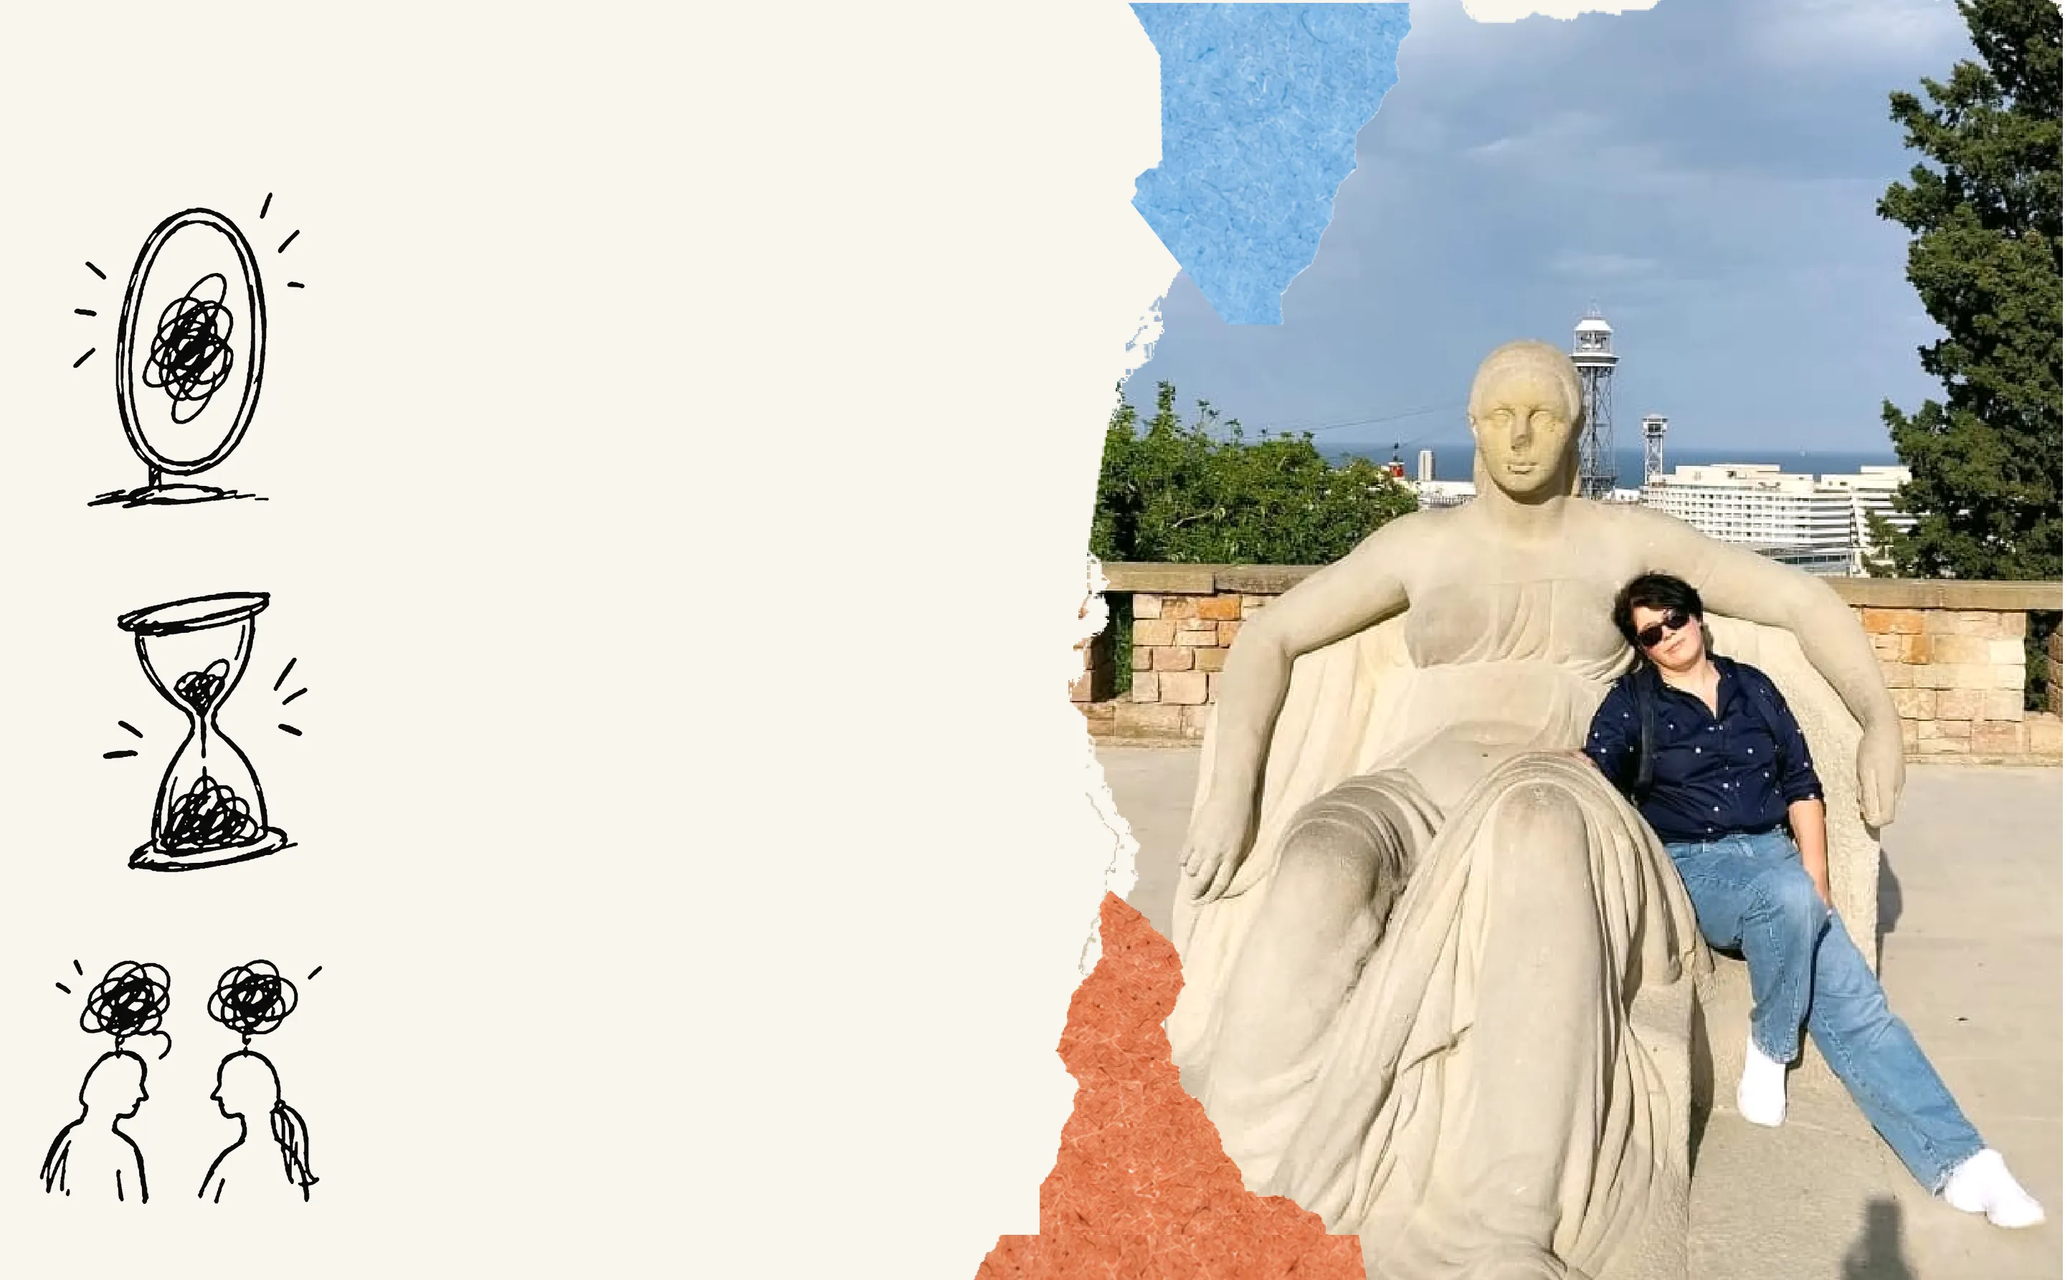
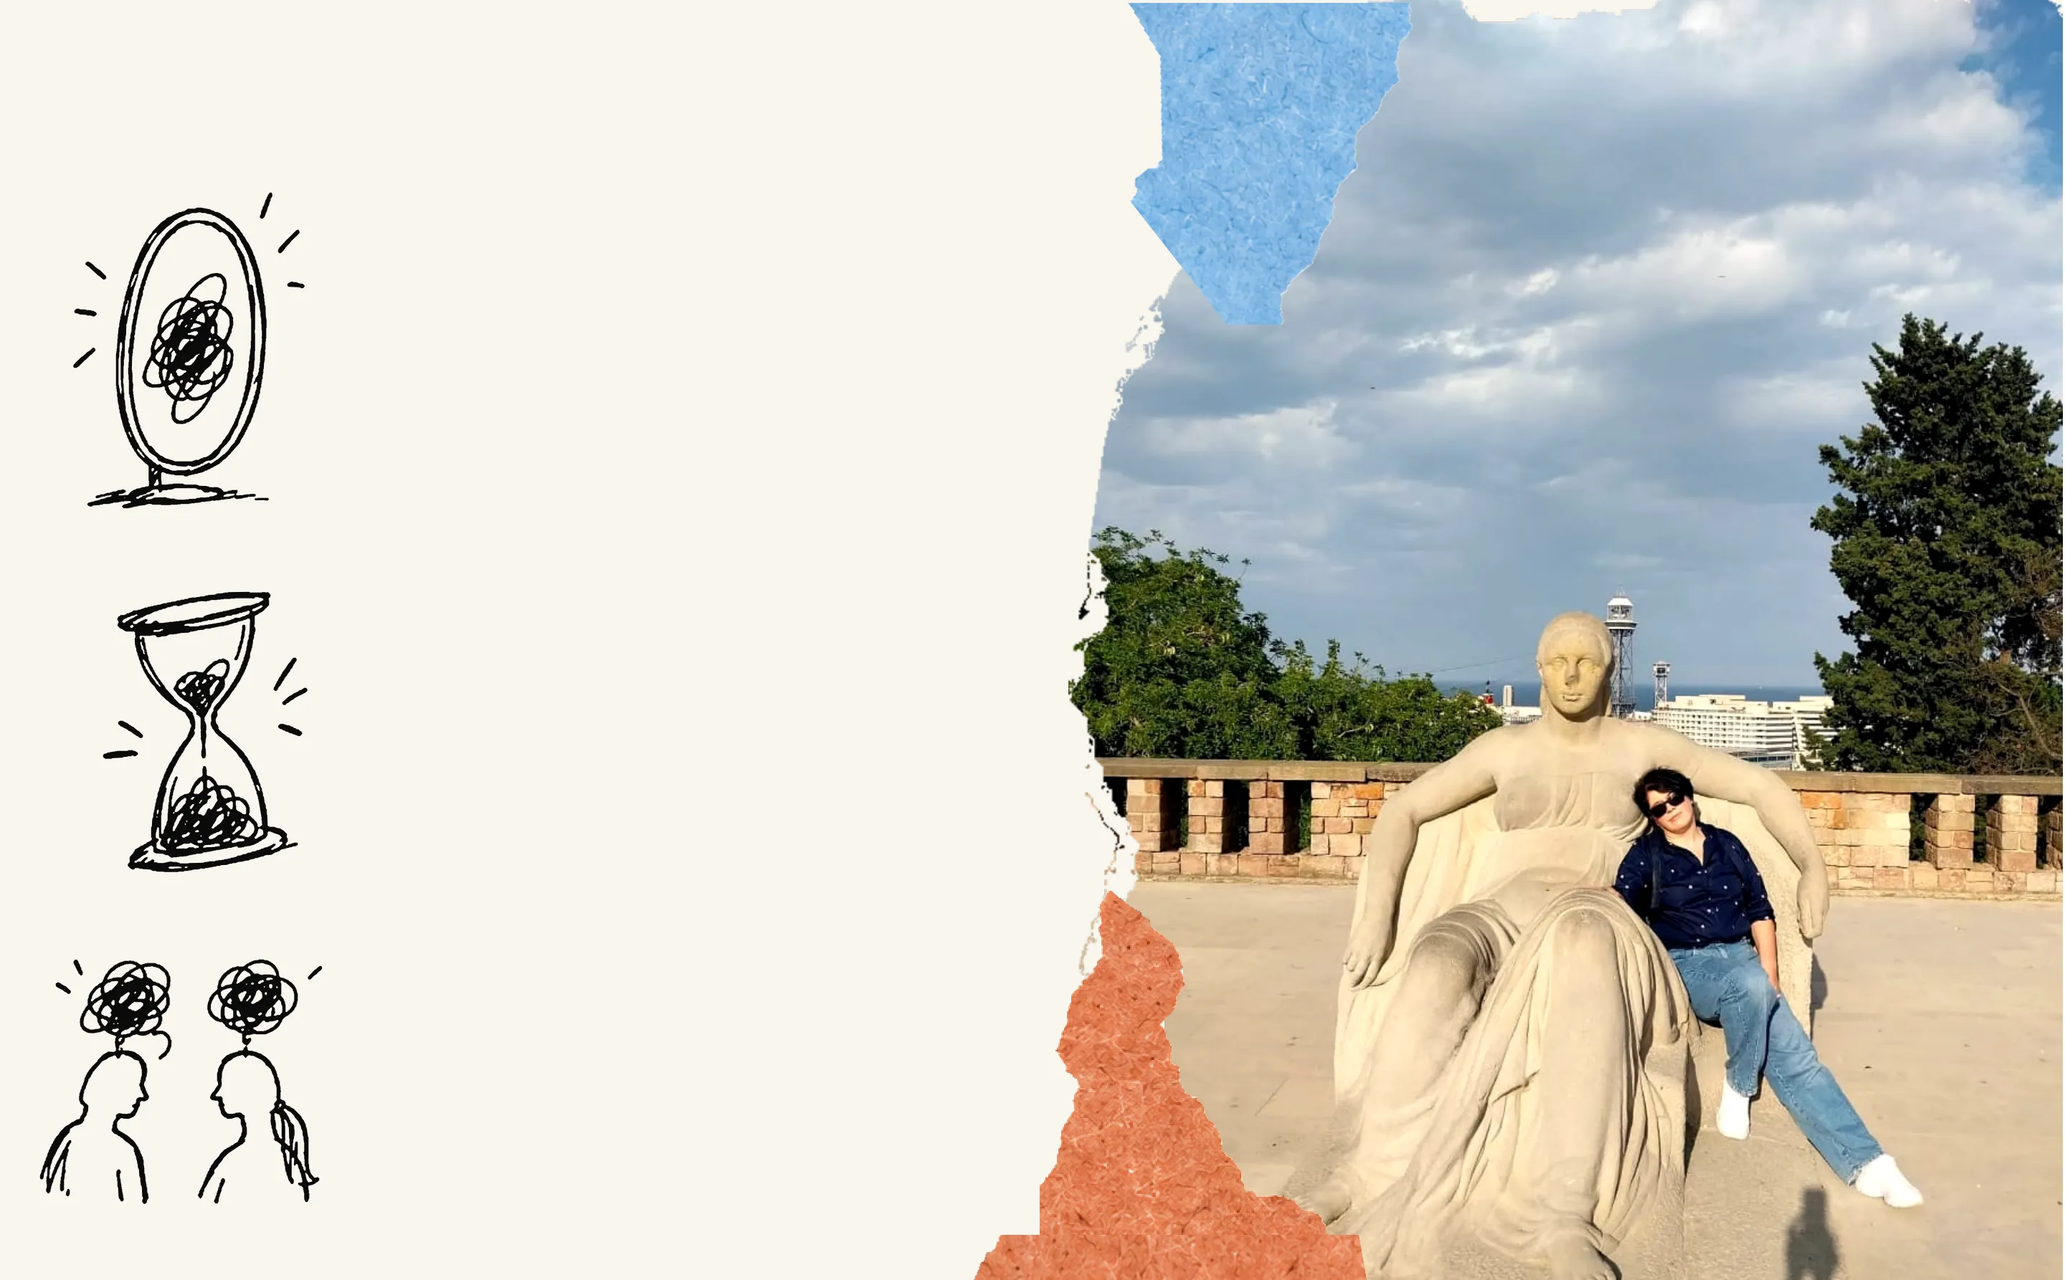
Оригиналы фото целиком (зонт, статуя), заметная подсветка ссылок, абзацы в ответе про сессии

Changed region(s): [[0.5, 0.0, 1.0, 1.0]]

diff --git a/index.html b/index.html
@@ -5140,7 +5140,7 @@
 <!-- 5. Обо мне -->
 <section class="screen" id="about">
 <!--ART-5-->
-<svg class="art" viewBox="0 0 1440 901.0" role="img" aria-label="about"><image href="assets/img/screens/s5.webp" x="-1" y="-1" width="1442" height="903.0" preserveAspectRatio="none"/><g class="live"><text font-size="88" fill="#111111" xml:space="preserve" transform="translate(84.9 227.8) scale(0.72 1)"><tspan x="0.0" y="0.0" font-family="'Old Standard TT'" font-weight="700">ОБО МНЕ</tspan></text><text font-size="20" fill="#111111" xml:space="preserve"><tspan x="95.1" y="284.2" font-family="'Old Standard TT'" font-weight="700">Я сама прошла через многое из того, </tspan></text><text font-size="20" fill="#111111" xml:space="preserve"><tspan x="95.1" y="317.8" font-family="'Old Standard TT'" font-weight="700">с чем приходят мои клиенты: физическое и </tspan></text><text font-size="20" fill="#111111" xml:space="preserve"><tspan x="95.1" y="351.4" font-family="'Old Standard TT'" font-weight="700">эмоциональное насилие, зависимости, </tspan></text><text font-size="20" fill="#111111" xml:space="preserve"><tspan x="95.1" y="385.0" font-family="'Old Standard TT'" font-weight="700">суицидальность.</tspan></text><text font-size="20" fill="#111111" xml:space="preserve"><tspan x="95.1" y="452.2" font-family="'Old Standard TT'" font-weight="400">Меня не пугают страшные истории.</tspan></text><text font-size="20" fill="#111111" xml:space="preserve"><tspan x="95.1" y="485.8" font-family="'Old Standard TT'" font-weight="400">За свою практику я много раз видела, как внешняя </tspan></text><text font-size="20" fill="#111111" xml:space="preserve"><tspan x="95.1" y="519.4" font-family="'Old Standard TT'" font-weight="400">проблема оказывается только верхушкой, а за ней </tspan></text><text font-size="20" fill="#111111" xml:space="preserve"><tspan x="95.1" y="553.0" font-family="'Old Standard TT'" font-weight="400">могут стоять опыт детства, травма, стыд, страх </tspan></text><text font-size="20" fill="#111111" xml:space="preserve"><tspan x="95.1" y="586.6" font-family="'Old Standard TT'" font-weight="400">близости или привычка постоянно справляться со </tspan></text><text font-size="20" fill="#111111" xml:space="preserve"><tspan x="95.1" y="620.2" font-family="'Old Standard TT'" font-weight="400">всем самостоятельно.</tspan></text><text font-size="20" fill="#111111" xml:space="preserve"><tspan x="95.1" y="653.8" font-family="'Old Standard TT'" font-weight="400">Мне важно не просто помочь вам пережить </tspan></text><text font-size="20" fill="#111111" xml:space="preserve"><tspan x="95.1" y="687.4" font-family="'Old Standard TT'" font-weight="400">очередной сложный период, а вместе </tspan></text><text font-size="20" fill="#111111" xml:space="preserve"><tspan x="95.1" y="721.0" font-family="'Old Standard TT'" font-weight="400">разобраться в том, как устроена ваша психика, </tspan></text><text font-size="20" fill="#111111" xml:space="preserve"><tspan x="95.1" y="754.6" font-family="'Old Standard TT'" font-weight="400">как отказаться от старых и неработающих </tspan></text><text font-size="20" fill="#111111" xml:space="preserve"><tspan x="95.1" y="788.2" font-family="'Old Standard TT'" font-weight="400">способов справляться со страданием и что </tspan></text><text font-size="20" fill="#111111" xml:space="preserve"><tspan x="95.1" y="821.8" font-family="'Old Standard TT'" font-weight="400">можно постепенно изменить. </tspan></text><text font-size="21.1" textLength="134.0" lengthAdjust="spacingAndGlyphs" fill="#111111" x="88" y="58" font-family="'Old Standard TT'" font-weight="700">ЕКАТЕРИНА</text><text font-size="21.1" textLength="88.8" lengthAdjust="spacingAndGlyphs" fill="#111111" x="88" y="80" font-family="'Old Standard TT'" font-weight="700">БУРЛАК</text><text font-size="14.5" textLength="169.0" lengthAdjust="spacingAndGlyphs" fill="#111111" x="89" y="108" font-family="'Old Standard TT'" font-weight="400">ПСИХОЛОГ · ОНЛАЙН</text><text font-size="16.9" textLength="59.0" lengthAdjust="spacingAndGlyphs" fill="#191415" x="878.3" y="58" font-family="Oswald" font-weight="300">ОБО МНЕ</text><text font-size="17.3" textLength="125.0" lengthAdjust="spacingAndGlyphs" fill="#191415" x="979.3" y="58" font-family="Oswald" font-weight="300">С ЧЕМ Я РАБОТАЮ</text><text font-size="16.4" textLength="82.8" lengthAdjust="spacingAndGlyphs" fill="#191415" x="1145.3" y="58" font-family="Oswald" font-weight="300">СУПЕРВИЗИЯ</text><text font-size="17.1" textLength="73.0" lengthAdjust="spacingAndGlyphs" fill="#191415" x="1264.3" y="59" font-family="Oswald" font-weight="300">КОНТАКТЫ</text></g><a href="#about" aria-label="Обо мне"><rect class="hit" rx="10" x="868.3" y="33.0" width="79.0" height="39.0"/></a><a href="#requests" aria-label="С чем я работаю"><rect class="hit" rx="10" x="969.3" y="33.0" width="145.0" height="39.0"/></a><a href="#contact" aria-label="Супервизия"><rect class="hit" rx="10" x="1135.3" y="33.0" width="102.8" height="39.0"/></a><a href="#contact" aria-label="Контакты"><rect class="hit" rx="10" x="1254.3" y="34.0" width="93.0" height="39.0"/></a><a href="#top" aria-label="Екатерина Бурлак, наверх"><rect class="hit" rx="10" x="78.0" y="30.0" width="200.0" height="92.0"/></a></svg>
+<svg class="art" viewBox="0 0 1440 901.0" role="img" aria-label="about"><image href="assets/img/screens/s5.webp" x="-1" y="-1" width="1442" height="903.0" preserveAspectRatio="none"/><g class="live"><text font-size="88" fill="#111111" xml:space="preserve" transform="translate(84.9 227.8) scale(0.72 1)"><tspan x="0.0" y="0.0" font-family="'Old Standard TT'" font-weight="700">ОБО МНЕ</tspan></text><text font-size="20" fill="#111111" xml:space="preserve"><tspan x="95.1" y="284.2" font-family="'Old Standard TT'" font-weight="700">Я сама прошла через многое из того, </tspan></text><text font-size="20" fill="#111111" xml:space="preserve"><tspan x="95.1" y="317.8" font-family="'Old Standard TT'" font-weight="700">с чем приходят мои клиенты: физическое и </tspan></text><text font-size="20" fill="#111111" xml:space="preserve"><tspan x="95.1" y="351.4" font-family="'Old Standard TT'" font-weight="700">эмоциональное насилие, зависимости, </tspan></text><text font-size="20" fill="#111111" xml:space="preserve"><tspan x="95.1" y="385.0" font-family="'Old Standard TT'" font-weight="700">суицидальность.</tspan></text><text font-size="20" fill="#111111" xml:space="preserve"><tspan x="95.1" y="452.2" font-family="'Old Standard TT'" font-weight="400">Меня не пугают страшные истории.</tspan></text><text font-size="20" fill="#111111" xml:space="preserve"><tspan x="95.1" y="485.8" font-family="'Old Standard TT'" font-weight="400">За свою практику я много раз видела, как внешняя </tspan></text><text font-size="20" fill="#111111" xml:space="preserve"><tspan x="95.1" y="519.4" font-family="'Old Standard TT'" font-weight="400">проблема оказывается только верхушкой, а за ней </tspan></text><text font-size="20" fill="#111111" xml:space="preserve"><tspan x="95.1" y="553.0" font-family="'Old Standard TT'" font-weight="400">могут стоять опыт детства, травма, стыд, страх </tspan></text><text font-size="20" fill="#111111" xml:space="preserve"><tspan x="95.1" y="586.6" font-family="'Old Standard TT'" font-weight="400">близости или привычка постоянно справляться со </tspan></text><text font-size="20" fill="#111111" xml:space="preserve"><tspan x="95.1" y="620.2" font-family="'Old Standard TT'" font-weight="400">всем самостоятельно.</tspan></text><text font-size="20" fill="#111111" xml:space="preserve"><tspan x="95.1" y="653.8" font-family="'Old Standard TT'" font-weight="400">Мне важно не просто помочь вам пережить </tspan></text><text font-size="20" fill="#111111" xml:space="preserve"><tspan x="95.1" y="687.4" font-family="'Old Standard TT'" font-weight="400">очередной сложный период, а вместе </tspan></text><text font-size="20" fill="#111111" xml:space="preserve"><tspan x="95.1" y="721.0" font-family="'Old Standard TT'" font-weight="400">разобраться в том, как устроена ваша психика, </tspan></text><text font-size="20" fill="#111111" xml:space="preserve"><tspan x="95.1" y="754.6" font-family="'Old Standard TT'" font-weight="400">как отказаться от старых и неработающих </tspan></text><text font-size="20" fill="#111111" xml:space="preserve"><tspan x="95.1" y="788.2" font-family="'Old Standard TT'" font-weight="400">способов справляться со страданием и что </tspan></text><text font-size="20" fill="#111111" xml:space="preserve"><tspan x="95.1" y="821.8" font-family="'Old Standard TT'" font-weight="400">можно постепенно изменить. </tspan></text><text font-size="21.1" textLength="134.0" lengthAdjust="spacingAndGlyphs" fill="#111111" x="88" y="58" font-family="'Old Standard TT'" font-weight="700">ЕКАТЕРИНА</text><text font-size="21.1" textLength="88.8" lengthAdjust="spacingAndGlyphs" fill="#111111" x="88" y="80" font-family="'Old Standard TT'" font-weight="700">БУРЛАК</text><text font-size="14.5" textLength="169.0" lengthAdjust="spacingAndGlyphs" fill="#111111" x="89" y="108" font-family="'Old Standard TT'" font-weight="400">ПСИХОЛОГ · ОНЛАЙН</text><g class="head-halo"><text font-size="16.9" textLength="59.0" lengthAdjust="spacingAndGlyphs" fill="#191415" x="878.3" y="58" font-family="Oswald" font-weight="300">ОБО МНЕ</text><text font-size="17.3" textLength="125.0" lengthAdjust="spacingAndGlyphs" fill="#191415" x="979.3" y="58" font-family="Oswald" font-weight="300">С ЧЕМ Я РАБОТАЮ</text><text font-size="16.4" textLength="82.8" lengthAdjust="spacingAndGlyphs" fill="#191415" x="1145.3" y="58" font-family="Oswald" font-weight="300">СУПЕРВИЗИЯ</text><text font-size="17.1" textLength="73.0" lengthAdjust="spacingAndGlyphs" fill="#191415" x="1264.3" y="59" font-family="Oswald" font-weight="300">КОНТАКТЫ</text></g></g><a href="#about" aria-label="Обо мне"><rect class="hit" rx="10" x="868.3" y="33.0" width="79.0" height="39.0"/></a><a href="#requests" aria-label="С чем я работаю"><rect class="hit" rx="10" x="969.3" y="33.0" width="145.0" height="39.0"/></a><a href="#contact" aria-label="Супервизия"><rect class="hit" rx="10" x="1135.3" y="33.0" width="102.8" height="39.0"/></a><a href="#contact" aria-label="Контакты"><rect class="hit" rx="10" x="1254.3" y="34.0" width="93.0" height="39.0"/></a><a href="#top" aria-label="Екатерина Бурлак, наверх"><rect class="hit" rx="10" x="78.0" y="30.0" width="200.0" height="92.0"/></a></svg>
 <!--/ART-5-->
 <div class="m-only m-block">
   <h2 class="title"><span>Обо мне</span></h2>
@@ -5205,7 +5205,7 @@
 </div>
 <div class="faq-ui">
   <details><summary>Сколько нужно сессий?</summary>
-    <p><b>Отвечаю: сколько раз нужно прийти в спортзал чтобы были «кубики»?</b><br>Зависит от формы и состояния, в каком вы пришли, как регулярно ходите, насколько интенсивно занимаетесь?<br>Никто не скажет сколько конкретно вам нужно сессий, предлагаю ориентироваться на число 42😊</p></details>
+    <p><b>Отвечаю: сколько раз нужно прийти в спортзал чтобы были «кубики»?</b></p><p>Зависит от формы и состояния, в каком вы пришли, как регулярно ходите, насколько интенсивно занимаетесь?</p><p>Никто не скажет сколько конкретно вам нужно сессий, предлагаю ориентироваться на число 42😊</p></details>
   <details><summary>Что, если «не получится»?</summary>
     <p>Если Ваш запрос релевантен проблеме, то шанс что что-то получится есть!</p></details>
   <details><summary>Как я работаю</summary>

diff --git a/assets/css/site.css b/assets/css/site.css
@@ -32,9 +32,10 @@ a{color:inherit}
 .divider{display:block;position:relative;z-index:3;width:100%;height:auto;margin-top:calc(var(--u) * -45)}
 .divider a:hover text{fill:#f2c14e}
 .art .about-fix{font:400 25.5px var(--serif);letter-spacing:1.17px;fill:#111310}
-.art .hit{transition:fill .3s ease}
-.art a:hover .hit{fill:rgba(197,98,70,.06)}
-.art a:focus-visible .hit{fill:rgba(197,98,70,.1)}
+.art .hit{transition:fill .25s ease}
+/* подсветка одинаковая на любом фоне — бумаге, фото, голубом: тёмная полупрозрачная плашка */
+.art a:hover .hit{fill:rgba(25,20,21,.13)}
+.art a:focus-visible .hit{fill:rgba(25,20,21,.18)}
 .m-only{display:none}
 
 /* живой текст поверх экранов 2–9 (из картинки он убран, см. strip_print_text в build_design.py).
@@ -66,6 +67,7 @@ a{color:inherit}
 .faq-ui summary::after{content:"+";font:400 calc(var(--u) * 44)/1 var(--serif)}
 .faq-ui details[open] summary::after{content:"–"}
 .faq-ui p{margin-top:calc(var(--u) * 18);line-height:1.45}
+.faq-ui details>:last-child{margin-bottom:calc(var(--u) * 22)}   /* воздух после ответа перед следующим вопросом */
 
 /* форма поверх экрана 9: поля по рамкам из макета */
 .form-ui{position:absolute;inset:0;pointer-events:none}
@@ -164,6 +166,7 @@ a{color:inherit}
   .faq-ui summary{font-size:23px}
   .faq-ui summary::after{font-size:32px}
   .faq-ui p{margin-top:12px}
+  .faq-ui details>:last-child{margin-bottom:16px}
   #faq .m-block:last-child{margin-top:30px}
   .form-ui{display:flex;flex-direction:column;gap:14px}
   .form-ui input,.form-ui textarea,.form-ui button{position:static;width:100%;height:auto;font-size:18px}
@@ -210,3 +213,6 @@ a{color:inherit}
   .faq-ui{height:auto!important;overflow:visible!important}
   #faq{transition:padding-bottom .25s ease}
 }
+
+/* меню поверх тёмного фото (экран «Обо мне») — светлая обводка букв */
+.art .head-halo text{stroke:#f8f5ee;stroke-width:3.5px;stroke-linejoin:round;paint-order:stroke}
